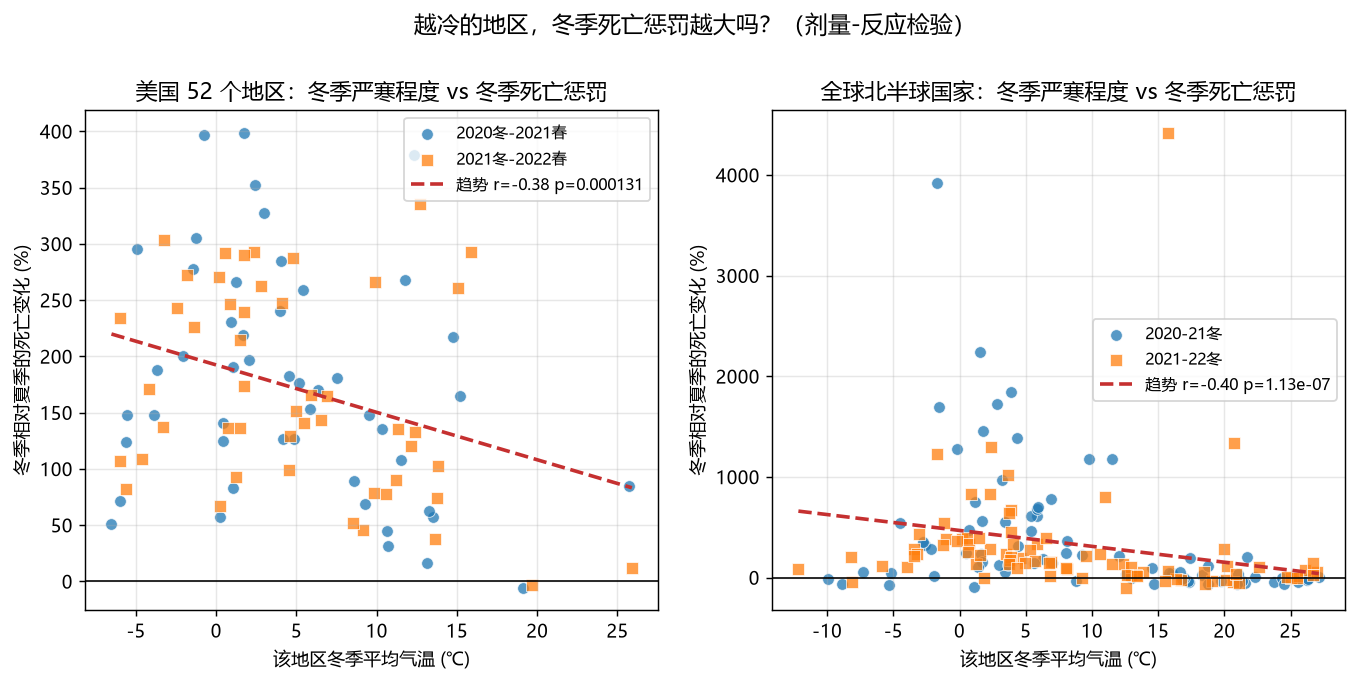
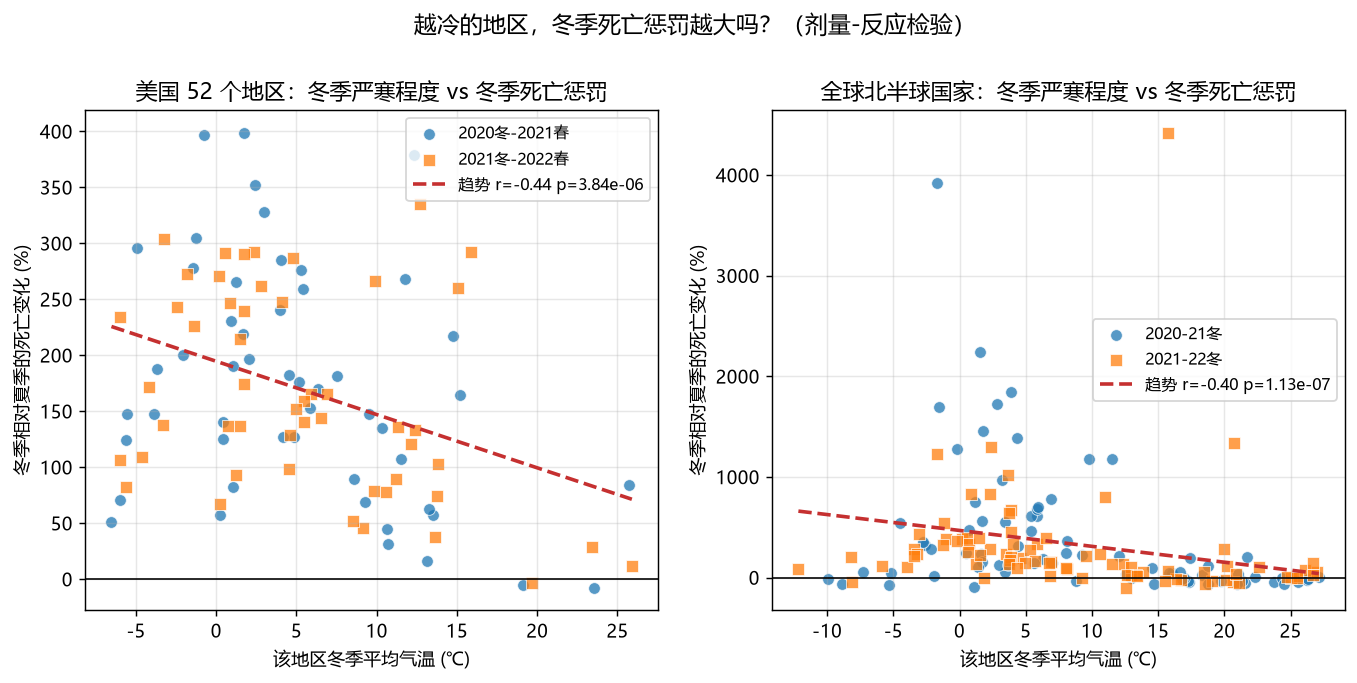
202609021804

diff --git a/blog_18.md b/blog_18.md
@@ -12,13 +12,13 @@
 
 结论有三条：
 
-**第一，冬天确实更致命，但致命的方式不是多数人以为的那样。** 在美国 52 个地区，冬季（11 月到次年 3 月）的新增死亡人数，比它前后两个夏天的平均水平高出 152%；49 个有人口数据的地区里，48 个（98.0%）都符合这个规律。全球北半球 93 个国家同样如此，高出 128% 到 132%；南半球 15 个国家（它们的冬季是 5—9 月）也高出 120%。南北两个半球的冬天相隔半年，却得出同一方向的结果。
+**第一，冬天确实更致命，但致命的方式不是多数人以为的那样。** 在美国 52 个地区，冬季（11 月到次年 3 月）的新增死亡人数，比它前后两个夏天的平均水平高出 149% 到 152%；51 个地区里，49 到 50 个（96% 到 98%）都符合这个规律。全球北半球 93 个国家同样如此，高出 128% 到 132%；南半球 15 个国家（它们的冬季是 5—9 月）也高出 120%。南北两个半球的冬天相隔半年，却得出同一方向的结果。
 
 **第二，冬天让人死得多的原因，是“感染的人多得多”，不是“感染者更容易死”。** 同一个冬季窗口里，美国各州的新增确诊高出 191%，比死亡的超额幅度还大。而衡量“每个感染者死亡风险”的病死率，冬季反而比夏天低 8% 到 14%——51 个地区里只有 14 个的冬季病死率更高。
 
-**第三，越冷的地方，冬天的亏吃得越大。** 一个地区冬季平均气温越低，它冬季相对夏天的死亡超额就越大。美国 98 个观测的相关系数是 -0.38（p = 0.0001），北半球 93 国的 163 个观测是 -0.40（p < 0.0000001）。这是本文最有分量的一条证据：如果冬天只是碰巧赶上病毒大流行，那么寒冷程度和超额幅度之间不该有这么整齐的对应关系。
+**第三，越冷的地方，冬天的亏吃得越大。** 一个地区冬季平均气温越低，它冬季相对夏天的死亡超额就越大。美国 102 个观测的相关系数是 -0.44（p = 0.000004），北半球 93 国的 163 个观测是 -0.40（p < 0.0000001）。这是本文最有分量的一条证据：如果冬天只是碰巧赶上病毒大流行，那么寒冷程度和超额幅度之间不该有这么整齐的对应关系。
 
-> **先花一分钟看懂两个统计数字。** 上面出现的 p = 0.0001、p < 0.0000001，回答的是同一个问题：假如冬天和夏天其实毫无差别，纯靠运气，能撞见眼前这么大差距的可能性有多大。 数字越小，"纯属巧合"这个解释越站不住脚。而 -0.38、-0.40 是相关系数，衡量"越冷"和"超额越大"这两件事同步得有多紧密：取值在 -1 到 +1 之间，负号表示"气温越低、超额越大"。两句话都值得记住——p 值**不**说明差距有多大（差距请看百分比）；相关系数**也不**说明"能解释多少"（要看它的平方，-0.38 平方之后只剩 14%）。附录里有这两者的完整说明。
+> **先花一分钟看懂两个统计数字。** 上面出现的 p = 0.000004、p < 0.0000001，回答的是同一个问题：假如冬天和夏天其实毫无差别，纯靠运气，能撞见眼前这么大差距的可能性有多大。 数字越小，"纯属巧合"这个解释越站不住脚。而 -0.44、-0.40 是相关系数，衡量"越冷"和"超额越大"这两件事同步得有多紧密：取值在 -1 到 +1 之间，负号表示"气温越低、超额越大"。两句话都值得记住——p 值**不**说明差距有多大（差距请看百分比）；相关系数**也不**说明"能解释多少"（要看它的平方，-0.44 平方之后剩 19%）。附录里有这两者的完整说明。
 
 ---
 
@@ -184,16 +184,16 @@
 
 先看美国这 52 个地区的情况。每个州，拿它的冬季死亡数，去比它前后两个夏天死亡数的平均值：
 
-| 冬季           | 死亡数变化 | 有多少地区更糟              | 统计显著性              |
-| ------------ | ----- | -------------------- | ------------------ |
-| 2020—2021 年冬 | +156% | 49 个地区中有 48 个（98.0%） | p < 0.000000000001 |
-| 2021—2022 年冬 | +152% | 49 个地区中有 48 个（98.0%） | p < 0.000000000001 |
+| 冬季           | 死亡数变化 | 有多少地区更糟              | 统计显著性           |
+| ------------ | ----- | -------------------- | --------------- |
+| 2020—2021 年冬 | +152% | 51 个地区中有 49 个（96.1%） | p < 0.000000001 |
+| 2021—2022 年冬 | +149% | 51 个地区中有 50 个（98.0%） | p < 0.000000001 |
 
 换一个更直观的说法：冬天的月均死亡，大约是夏天的 2.5 倍。
 
 ![图 3：美国合计逐月走势。上：月新增确诊；中：月归因死亡；下：滞后对齐病死率（红线）叠加月均气温（橙虚线）。蓝色带为两个冬季，两次死亡高峰都落在冬季。](images/blog_18/fig1_us_monthly.png)
 
-而且这个规律的一致性高得惊人。49 个有人口数据的地区里 48 个都符合，只有一个例外。要知道这些地区从佛罗里达到阿拉斯加、从夏威夷到缅因，气候跨度极大，医疗条件、人口结构、防疫政策各不相同，却能得出同一个方向。
+而且这个规律的一致性高得惊人。51 个地区里 49 到 50 个都符合（96% 到 98%），例外只有一两个。要知道这些地区从佛罗里达到阿拉斯加、从夏威夷到缅因，气候跨度极大，医疗条件、人口结构、防疫政策各不相同，却能得出同一个方向。
 
 北半球国家也是同样的方向：
 
@@ -204,9 +204,9 @@
 
 （这里只统计北半球国家。南半球的冬夏月份相反，单独算，见 4.4 节。）
 
-国家样本的离散度比美国大得多（69.6% 对 98.0%），这不奇怪——各国的数据质量、统计口径、疫情节奏差异远大于美国国内。但方向和量级是一致的。
+国家样本的离散度比美国大得多（69.6% 对 96% 到 98%），这不奇怪——各国的数据质量、统计口径、疫情节奏差异远大于美国国内。但方向和量级是一致的。
 
-另一个角度看这件事：把三年的死亡按月份摊开，美国 55.5% 的死亡发生在寒季这 5 个月（11、12、1、2、3 月），而暖季 5 个月（5—9 月）只占 30.0%。如果一年中死亡是均匀分布的，5 个月应该占 41.7%。寒季实实在在超出了 14 个百分点。
+另一个角度看这件事：把三年的死亡按月份摊开，美国 54.8% 的死亡发生在寒季这 5 个月（11、12、1、2、3 月），而暖季 5 个月（5—9 月）只占 30.4%。如果一年中死亡是均匀分布的，5 个月应该占 41.7%。寒季实实在在超出了 13 个百分点。
 
 北半球国家的数字是寒季 49.5%、暖季 32.8%，超出均匀基准 7.8 个百分点。超出幅度比美国略小（美国超出 13.1 个百分点），主要原因是国家之间的疫情节奏不齐：有的国家冬天正好赶上暴发，有的国家那时恰好平静，加总时高低相互抵消了一些。
 
@@ -225,7 +225,7 @@
 | 2020—2021 年冬 | +176%  | 51 个地区中有 50 个（98.0%） |
 | 2021—2022 年冬 | +191%  | 51 个地区中全部 51 个（100%） |
 
-注意这个数字：确诊增加 191%，死亡增加 152%。传播的超额幅度，比死亡的超额幅度还大。
+注意这个数字：确诊增加 191%，死亡增加 149% 到 152%。传播的超额幅度，比死亡的超额幅度还大。
 
 这就意味着，把两者相除得到的病死率，冬季应该是**下降**的。事实正是如此：
 
@@ -260,15 +260,15 @@
 
 | 样本               | 相关系数  | p 值         | 观测数 |
 | ---------------- | ----- | ----------- | --- |
-| 美国（两个冬天合并）       | -0.38 | 0.0001      | 98  |
+| 美国（两个冬天合并）       | -0.44 | 0.000004    | 102 |
 | 北半球 93 国（两个冬天合并） | -0.40 | < 0.0000001 | 163 |
 
 分年份看也一样：
 
 | 样本  | 冬季          | 相关系数  | p 值      | 观测数 |
 | --- | ----------- | ----- | -------- | --- |
-| 美国  | 2020—2021 冬 | -0.34 | 0.017    | 49  |
-| 美国  | 2021—2022 冬 | -0.42 | 0.003    | 49  |
+| 美国  | 2020—2021 冬 | -0.42 | 0.002    | 51  |
+| 美国  | 2021—2022 冬 | -0.47 | 0.0005   | 51  |
 | 北半球 | 2020—2021 冬 | -0.46 | < 0.0001 | 79  |
 | 北半球 | 2021—2022 冬 | -0.35 | 0.001    | 84  |
 
@@ -276,7 +276,7 @@
 
 负号的含义是：横轴（冬季气温）越小，纵轴（冬季死亡超额）越大。越冷，亏吃得越多。
 
-相关系数本身还需要一层翻译，这里先说清楚，免得被数字误导：它衡量的是"两件事同步得有多紧密"，**不是**"寒冷能解释多少差异"。要回答后者，得把相关系数平方。-0.38 平方是 0.142——寒冷大约能解释各地区冬季超额差异的 14%，剩下 86% 归其他因素。这个数字比 -0.38 看起来小得多，也更接近实情。附录里有完整的说明和六个样本的一览表。
+相关系数本身还需要一层翻译，这里先说清楚，免得被数字误导：它衡量的是"两件事同步得有多紧密"，**不是**"寒冷能解释多少差异"。要回答后者，得把相关系数平方。-0.44 平方是 0.194——寒冷大约能解释各地区冬季超额差异的 19%，剩下 81% 归其他因素。这个数字比 -0.44 看起来小得多，也更接近实情。附录里有完整的说明和六个样本的一览表。
 
 ![图 5：剂量—反应散点。横轴是各地区冬季平均气温（北半球为 11—3 月，南半球为 5—9 月），纵轴是冬季相对夏天的死亡超额。左为美国 52 个地区，右为北半球国家；两套数据都呈显著负相关——越冷，冬季超额越大。](images/blog_18/fig3_scatter.png)
 
@@ -393,7 +393,7 @@
 
 这个指标的好处是：它不依赖检测。一个人死了就是死了，不会被“这周检测得多不多”影响。它当然也有自己的问题——死亡数字会受医疗挤兑、统计口径、报告延迟的影响——但这些问题不像检测那样，会系统性地随季节和疫情阶段来回摆动。
 
-换锚点之后，结论立刻变得清晰且一致：冬季死亡超额 152%，98.0% 的地区符合，剂量—反应显著，三个滞后设定（14 / 21 / 28 天）结果稳定。
+换锚点之后，结论立刻变得清晰且一致：冬季死亡超额 149% 到 152%，96% 到 98% 的地区符合，剂量—反应显著，三个滞后设定（14 / 21 / 28 天）结果稳定。
 
 方法学教训：当一个指标在不同设定下给出 -30% 到 +6% 这么大的摇摆时，不要去挑那个最显著的结果，而要换一个更硬的指标。显著不等于稳健。
 
@@ -405,9 +405,9 @@
 
 ### 6.1 能信的部分
 
-- **冬季死亡超额本身**，证据非常硬。98.0% 的美国地区方向一致，量级达 2.5 倍，跨越两个独立的冬天，在三个滞后设定下都成立。
+- **冬季死亡超额本身**，证据非常硬。96% 到 98% 的美国地区方向一致，量级达 2.5 倍，跨越两个独立的冬天，在三个滞后设定下都成立。
 - **剂量—反应关系**，四组独立样本一致显著，样本量从 49 到 109 不等。这条最难用巧合解释。
-- **传播是主要机制**，得到了两个角度的交叉印证：确诊超额（191%）大于死亡超额（152%），且病死率与寒冷程度无剂量—反应关系。
+- **传播是主要机制**，得到了两个角度的交叉印证：确诊超额（191%）大于死亡超额（149% 到 152%），且病死率与寒冷程度无剂量—反应关系。
 
 ### 6.2 要打折的部分
 
@@ -415,9 +415,9 @@
 
 **第二，2022 年之后的确诊数据严重失真。** 奥密克戎时代家庭自测普及，大量感染从未进入任何统计。北半球很多国家在 2022 年后基本停止了完整上报。这让 2021—2022 年冬季的确诊数字（+236%）可能被低估，从而让同期的病死率数字（-30.8%）失真。不过死亡数据受的影响小得多，所以本文的核心结论——死亡超额——不受这个因素的太大影响。
 
-**第三，单一坐标代表不了一个大国。** 即使修正了人口重心，用一个点代表横跨多个气候带的俄罗斯、加拿大、巴西、美国，仍然是粗糙的。这也是为什么美国 52 个地区的结果（每个地区相对同质）比北半球国家样本的结果更干净、更一致（98.0% 对 69.6%）。本文的排序是：美国地区的结果比北半球国家的结果更可信，而不是反过来。
+**第三，单一坐标代表不了一个大国。** 即使修正了人口重心，用一个点代表横跨多个气候带的俄罗斯、加拿大、巴西、美国，仍然是粗糙的。这也是为什么美国 52 个地区的结果（每个地区相对同质）比北半球国家样本的结果更干净、更一致（96% 到 98% 对 69.6%）。本文的排序是：美国地区的结果比北半球国家的结果更可信，而不是反过来。
 
-**第四，“前后两个夏天的平均”这个对照依赖一个假设**：影响因素是平缓变化的。疫苗铺开、毒株更替确实比较平缓，但不是严格线性的。如果某个因素在冬天发生了阶跃式变化（比如疫苗在 2021 年初突然大规模铺开），这个设计就无法完全剔除它。不过 2020—2021 和 2021—2022 两个冬天的结果高度一致（+156% 和 +152%），而这两个冬天的疫苗状况截然不同，算是给这个假设提供了一个侧面支持。
+**第四，“前后两个夏天的平均”这个对照依赖一个假设**：影响因素是平缓变化的。疫苗铺开、毒株更替确实比较平缓，但不是严格线性的。如果某个因素在冬天发生了阶跃式变化（比如疫苗在 2021 年初突然大规模铺开），这个设计就无法完全剔除它。不过 2020—2021 和 2021—2022 两个冬天的结果高度一致（+152% 和 +149%），而这两个冬天的疫苗状况截然不同，算是给这个假设提供了一个侧面支持。
 
 **第五，没有纳入非药物干预。** 封锁、口罩、学校停课这些措施的时间和强度在不同地区差异巨大，而且往往正好在冬季疫情高峰时收紧。本文没有控制这些因素。如果各地都在冬天加强防控，那么观察到的冬季超额反而是“已经被防控压低之后”的水平，真实效应只会更大。
 
@@ -484,10 +484,10 @@
 | 冬季均温 / 冬夏温差        | 5.2—5.5 ℃ / 16.6 ℃ | 8.7—9.1 ℃ / 14.3 ℃  | 18.4 ℃ / 4.7 ℃           |
 | 冬季新增确诊变化           | +169% / +186%      | +107% / +236%       | +0.5%（不显著）               |
 | 冬季死亡数变化            | +147% / +145%      | +128% / +132%       | +120%                    |
-| 冬季人均死亡变化           | +147% / +145%      | —                   | —                        |
+| 冬季人均死亡变化           | +141% / +141%      | —                   | —                        |
 | 冬季病死率变化            | -8.4% / -14.4%     | +10.0%（不显著）/ -30.8% | +118.5%（其中大部分是奥密克戎造成的假象） |
 | 冬季死亡更糟的地区占比        | 96.1% / 98.0%      | 69.6% / 83.3%       | 86.7%                    |
-| 冬季气温 vs 死亡超额 相关系数  | -0.34 / -0.42      | -0.46 / -0.35       | +0.508（p = 0.053，不显著）    |
+| 冬季气温 vs 死亡超额 相关系数  | -0.42 / -0.47      | -0.46 / -0.35       | +0.508（p = 0.053，不显著）    |
 | 冬季气温 vs 病死率超额 相关系数 | 不显著                | 不显著                 | 不显著                      |
 
 （美国与北半球的"两个数字"分别对应 2020—2021 年冬季与 2021—2022 年冬季；南半球只有 2021 年一个可用窗口。美国的确诊与死亡数字已按月均归一，与前文的未归一版本略有出入，方向和量级不变。）
@@ -500,11 +500,11 @@
 
 **打个比方。** 抛一枚硬币，抛 10 次有 7 次正面，你大概不会怀疑硬币有问题——正常硬币也常这样。但如果 10 次全是正面，你多半要起疑了，因为正常硬币做到这件事的概率只有约千分之一。p 值就是那个"正常硬币做到这件事的概率"。
 
-回到本文的数据：美国 49 个有人口数据的地区里，48 个的冬季死亡高于夏天。如果冬天夏天真的没差别，每个地区就像抛硬币，各有五成机会"冬天更高"。48 比 1 这样一边倒的结果，靠运气撞出来的概率小到万亿分之一量级。所以我说这个规律不是巧合。
+回到本文的数据：美国 51 个地区里，49 到 50 个的冬季死亡高于夏天。如果冬天夏天真的没差别，每个地区就像抛硬币，各有五成机会"冬天更高"。49 比 2、50 比 1 这样一边倒的结果，靠运气撞出来的概率小到万亿分之一量级。所以我说这个规律不是巧合。
 
 **四个常见误解，逐条说清楚。**
 
-**一，p 值不说差距有多大。** 只要样本够大，一个微不足道的差距也能算出极小的 p 值。所以本文每张表都同时给出效应幅度（+152%）和方向一致性（98.0%），p 值只是第三重保险。看结论的顺序应该是：先看百分比，再看方向一致性，最后才看 p 值。
+**一，p 值不说差距有多大。** 只要样本够大，一个微不足道的差距也能算出极小的 p 值。所以本文每张表都同时给出效应幅度（+149% 到 +152%）和方向一致性（96% 到 98%），p 值只是第三重保险。看结论的顺序应该是：先看百分比，再看方向一致性，最后才看 p 值。
 
 **二，p < 0.05 不是真理的分界线。** 0.05 是统计学界沿用下来的一个约定，不是自然规律。0.049 和 0.051 之间没有本质区别。本文说某个结果"显著"，就是指 p < 0.05；说"不显著"，只表示这批数据不足以排除巧合，不等于"已经证明没有效应"。这两句话差得很远。
 
@@ -523,13 +523,13 @@
 
 每种都配了两种做法，是因为单一方法容易被数据里的个别怪点带偏。两种都指向同一个结论时，可信度才站得住。
 
-**关于那些极小的 p 值。** 4.1 节出现了 p < 0.000000000001 这样的数字。它确实说明规律极强，但不必把它理解成"比 p = 0.0001 强一亿倍"。到了这个量级，p 值的具体大小已经不重要了，真正有说服力的是旁边那两个朴素的数字：98.0% 的地区方向一致，效应幅度 2.5 倍。这两个数字不需要任何统计知识也能看懂，也比 p 值更难被方法上的技巧操纵。
+**关于那些极小的 p 值。** 4.1 节出现了 p < 0.000000001 这样的数字。它确实说明规律极强，但不必把它理解成"比 p = 0.0001 强很多倍"。到了这个量级，p 值的具体大小已经不重要了，真正有说服力的是旁边那两个朴素的数字：96% 到 98% 的地区方向一致，效应幅度 2.5 倍。这两个数字不需要任何统计知识也能看懂，也比 p 值更难被方法上的技巧操纵。
 
 ### 相关系数在说什么（大白话版）
 
 **一句话版本。** 相关系数衡量两个东西一起变化的紧密程度，取值在 -1 到 +1 之间。
 
-**符号只表示方向，不表示好坏。** 正号是一个变大另一个也跟着变大（比如身高和体重）；负号是一个变大另一个反而变小。本文的"气温越低、死亡超额越大"就是负号，写成 -0.38。读作负零点三八，那个负号不是说效果是负面的，只是说两件事的变动方向相反。接近 0 则表示看不出两者有什么同步关系。
+**符号只表示方向，不表示好坏。** 正号是一个变大另一个也跟着变大（比如身高和体重）；负号是一个变大另一个反而变小。本文的"气温越低、死亡超额越大"就是负号，写成 -0.44。读作负零点四四，那个负号不是说效果是负面的，只是说两件事的变动方向相反。接近 0 则表示看不出两者有什么同步关系。
 
 **绝对值表示紧密程度。** 离 0 越远越紧密。一个粗糙但够用的标尺：
 
@@ -542,26 +542,26 @@
 
 **但这里有个最容易被跳过的步骤：要看它能解释多少，得把相关系数平方。**
 
-本文美国样本的 r = -0.38，平方之后是 0.142。意思是：各地区冬季死亡超额的差异里，大约 14% 能由"冬天有多冷"解释，剩下 86% 由别的因素决定——人口年龄结构、医疗水平、防控力度、数据质量，还有很多说不清的东西。
+本文美国样本的 r = -0.44，平方之后是 0.194。意思是：各地区冬季死亡超额的差异里，大约 19% 能由"冬天有多冷"解释，剩下 81% 由别的因素决定——人口年龄结构、医疗水平、防控力度、数据质量，还有很多说不清的东西。
 
-这个平方很有必要。0.38 听起来是个"中等偏上"的数字，一平方只剩 14%，立刻谦逊了。下面把本文六个相关系数连同平方值一并列出：
+这个平方很有必要。0.44 听起来是个"中等偏上"的数字，一平方只剩 19%，立刻谦逊了。下面把本文六个相关系数连同平方值一并列出：
 
 | 样本              | 相关系数  | 平方（可解释比例） | 观测数 |
 | --------------- | ----- | --------- | --- |
-| 美国 2020—2021 冬  | -0.34 | 11.5%     | 49  |
-| 美国 2021—2022 冬  | -0.42 | 17.5%     | 49  |
+| 美国 2020—2021 冬  | -0.42 | 17.5%     | 51  |
+| 美国 2021—2022 冬  | -0.47 | 22.0%     | 51  |
 | 北半球 2020—2021 冬 | -0.46 | 20.7%     | 79  |
 | 北半球 2021—2022 冬 | -0.35 | 12.0%     | 84  |
-| 美国（两个冬天合并）      | -0.38 | 14.2%     | 98  |
+| 美国（两个冬天合并）      | -0.44 | 19.3%     | 102 |
 | 北半球（两个冬天合并）     | -0.40 | 16.1%     | 163 |
 
-六组的区间是 -0.34 到 -0.46，平方后 12% 到 21%。
+六组的区间是 -0.35 到 -0.47，平方后 12% 到 22%。
 
-那么，只解释 14% 还算有力证据吗？ 算。两个理由。
+那么，只解释 19% 还算有力证据吗？ 算。两个理由。
 
-第一，在流行病学里，单因素能解释百分之十几的差异已经不算小了。影响一个地区疫情死亡的因素太多了，没有一个因素能独占大头，14% 放在这个上下文里是可观的份额。
+第一，在流行病学里，单因素能解释百分之十几的差异已经不算小了。影响一个地区疫情死亡的因素太多了，没有一个因素能独占大头，19% 放在这个上下文里是可观的份额。
 
-第二，本文的证据力量本来就不靠这个数字有多大，而靠六组相关系数清一色落在 -0.34 到 -0.46 这个区间，方向完全一致。如果冬天只是碰巧赶上大流行，这些数字应该在 0 附近随机散开，有正有负。它们没有。
+第二，本文的证据力量本来就不靠这个数字有多大，而靠六组相关系数清一色落在 -0.35 到 -0.47 这个区间，方向完全一致。如果冬天只是碰巧赶上大流行，这些数字应该在 0 附近随机散开，有正有负。它们没有。
 
 **三个要小心的误解。**
 
@@ -579,17 +579,21 @@
 | 怕不怕极端值 | 怕，一两个怪点就能把它拉偏 | 不太怕                       |
 | 抓什么关系  | 要求接近直线        | 只要"一个变大另一个也跟着变大"就算，不要求成直线 |
 
-本文两个都算了。六个样本的 Spearman 分别是 -0.26、-0.29、-0.48、-0.53（分年度）以及 -0.28、-0.50（合并），与 Pearson 方向完全一致，北半球样本甚至比 Pearson 更负。两种算法都成立，说明结论不是被个别极端地区撑起来的。
+本文两个都算了。六个样本的 Spearman 分别是 -0.30、-0.33、-0.48、-0.53（分年度）以及 -0.32、-0.50（合并），与 Pearson 方向完全一致，北半球样本甚至比 Pearson 更负。两种算法都成立，说明结论不是被个别极端地区撑起来的。
 
 [代码与数据](https://github.com/zyq5945/covid_winter)，共 20 个步骤脚本。核心模块：
 
 - `cw_core.py` — 数据加载、回调修复、波次切分
+
 - `step1_qc.py` — 数据质检与不变量校验
+
 - `step2_temp.py` / `step9_coords.py` — 气温抓取与坐标修正
+
 - `step14_decisive.py` — 决定性检验（冬季 vs 前后两个夏天）
-- `step16_dose.py` — 剂量—反应回归
-- `step19_hemisphere.py` — 按南北半球分别定季节，含单侧对照分解
-- `step15_figures.py` / `step17_report.py` — 图表与报告生成
+
+- `step19_hemisphere.py` — 按南北半球分别定季节，含剂量—反应与单侧对照分解
+
+- `step15_figures.py` / `step20_hemi_fig.py` — 图表生成
 
 ---
 
